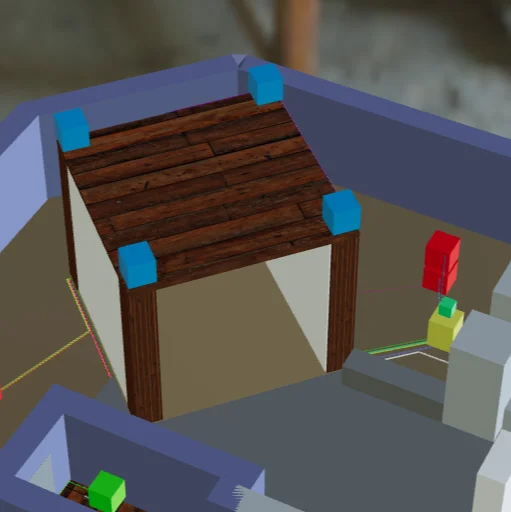
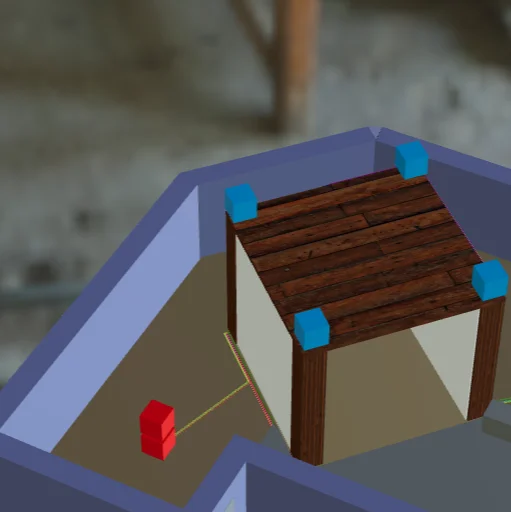
Add files via upload

diff --git a/index.html b/index.html
@@ -8,13 +8,56 @@
     <link type="text/css" href="./styles.css" rel="stylesheet"/>
   </head>
   <body>
-    Ierothoes was here<br>
     <!-- <model-viewer> HTML element -->
-    <model-viewer src="KibwtosGLTF.glb" ar ar-modes="webxr scene-viewer quick-look" width="500" camera-controls tone-mapping="aces" poster="poster.webp" shadow-intensity="1.35" environment-image="aircraft_workshop_01_1k.hdr" skybox-image="aircraft_workshop_01_1k.hdr" shadow-softness="1" camera-orbit="-62.62deg 45.87deg 9.226m" field-of-view="20.67deg">
-      <button class="Hotspot" slot="hotspot-1" data-position="0.5450418354012079m 0.3196736723036858m 0.6299859161362764m" data-normal="1m 0m 0m" data-visibility-attribute="visible">
+    <model-viewer src="KibwtosGLTF.glb" ar ar-modes="webxr scene-viewer quick-look" camera-controls tone-mapping="aces" poster="poster.webp" shadow-intensity="1.35" environment-image="aircraft_workshop_01_1k.hdr" skybox-image="aircraft_workshop_01_1k.hdr" shadow-softness="1" camera-orbit="-62.62deg 45.87deg 9.226m" field-of-view="20.67deg">
+      <button class="Hotspot" slot="hotspot-4" data-position="-0.8404524639406504m 0.22859999723732471m -1.142126163302229m" data-normal="0m 1m 0m" data-visibility-attribute="visible">
+          <div class="HotspotAnnotation">Projector01</div>
+      </button><button class="Hotspot" slot="hotspot-5" data-position="-0.8418325995450696m 0.3810000065714121m -1.1369141066908617m" data-normal="0m 1m 0m" data-visibility-attribute="visible">
+          <div class="HotspotAnnotation">Projector02</div>
+      </button><button class="Hotspot" slot="hotspot-8" data-position="0.8096617410568295m 0.2031999919563539m -1.1992893988743147m" data-normal="0m 1m 0m" data-visibility-attribute="visible">
+          <div class="HotspotAnnotation">Projector03</div>
+      </button><button class="Hotspot" slot="hotspot-11" data-position="0.8106174703034759m 0.3804894161572566m -1.2012522921594355m" data-normal="0.6427873887075685m 0m -0.7660446285422968m" data-visibility-attribute="visible">
+          <div class="HotspotAnnotation">Projector04</div>
+      </button><button class="Hotspot" slot="hotspot-12" data-position="0.8483231782165113m 0.22859999723732471m 0.5352642239662252m" data-normal="0m 1m 0m" data-visibility-attribute="visible">
+          <div class="HotspotAnnotation">Projector05</div>
+      </button><button class="Hotspot" slot="hotspot-16" data-position="0.3658530764810761m 0.8284577815297843m -0.8086641437682563m" data-normal="0.6691302665137417m 0m -0.7431451314751708m" data-visibility-attribute="visible">
+          <div class="HotspotAnnotation">Projector08</div>
+      </button><button class="Hotspot" slot="hotspot-17" data-position="0.4672427634792565m 0.8262434849135454m -0.7141876352978147m" data-normal="0.6691307063621001m 3.423251668731993e-8m -0.7431447354340578m" data-visibility-attribute="visible">
+          <div class="HotspotAnnotation">Projector07</div>
+      </button><button class="Hotspot" slot="hotspot-18" data-position="0.8484549138379409m 0.3810000065714121m 0.5289476974192194m" data-normal="0m 1m 0m" data-visibility-attribute="visible">
+          <div class="HotspotAnnotation">Projector06</div>
+      </button><button class="Hotspot" slot="hotspot-19" data-position="0.5138617161551875m 0.34837756771594286m 0.6470324311043342m" data-normal="0m 1m 0m" data-visibility-attribute="visible">
           <div class="HotspotAnnotation">Laptop</div>
-      </button><button class="Hotspot" slot="hotspot-2" data-position="0.5767918350175023m 0.2086151574197068m 0.6269108662313089m" data-normal="1m 0m 0m" data-visibility-attribute="visible">
+      </button><button class="Hotspot" slot="hotspot-22" data-position="0.5079452131192626m 0.25673253554850817m 0.6496280006057427m" data-normal="0m 1m 0m" data-visibility-attribute="visible">
           <div class="HotspotAnnotation">Rack</div>
+      </button><button class="Hotspot" slot="hotspot-23" data-position="-1.1691966609270248m 0.36830000672489477m -0.21519091560475406m" data-normal="0m 1m 0m" data-visibility-attribute="visible">
+          <div class="HotspotAnnotation">PC</div>
+      </button><button class="Hotspot" slot="hotspot-26" data-position="0.8511897739992038m 0.3810000065714128m 1.6827616796595206m" data-normal="0m 1m 0m" data-visibility-attribute="visible">
+          <div class="HotspotAnnotation">PC_HOST06</div>
+      </button><button class="Hotspot" slot="hotspot-27" data-position="1.0114948973454296m 0.3810000065714121m 1.6793807458738257m" data-normal="0m 1m 0m" data-visibility-attribute="visible">
+          <div class="HotspotAnnotation">PC_HOST05</div>
+      </button><button class="Hotspot" slot="hotspot-28" data-position="0.8517730898712933m 0.3810000065714121m 1.5157149281601878m" data-normal="0m 1m 0m" data-visibility-attribute="visible">
+          <div class="HotspotAnnotation">PC_HOST08</div>
+      </button><button class="Hotspot" slot="hotspot-29" data-position="1.012876771766069m 0.3810000065714121m 1.51018504635575m" data-normal="0m 1m 0m" data-visibility-attribute="visible">
+          <div class="HotspotAnnotation">PC_HOST07</div>
+      </button><button class="Hotspot" slot="hotspot-32" data-position="1.0110865764065953m 0.19334746038237932m 1.6162660596892238m" data-normal="0m 0m -1m" data-visibility-attribute="visible">
+          <div class="HotspotAnnotation">PC_HOST01</div>
+      </button><button class="Hotspot" slot="hotspot-34" data-position="0.8602185205009177m 0.1863106218304467m 1.6162660596892238m" data-normal="0m 0m -1m" data-visibility-attribute="visible">
+          <div class="HotspotAnnotation">PC_HOST02</div>
+      </button><button class="Hotspot" slot="hotspot-35" data-position="0.8496992090319841m 0.22031782743485595m 1.4481202838942409m" data-normal="0m 0m -1m" data-visibility-attribute="visible">
+          <div class="HotspotAnnotation">PC_HOST04</div>
+      </button><button class="Hotspot" slot="hotspot-36" data-position="1.009151723057061m 0.21863999296724587m 1.4483291385695338m" data-normal="0m 0m -1m" data-visibility-attribute="visible">
+          <div class="HotspotAnnotation">PC_HOST03</div>
+      </button><button class="Hotspot" slot="hotspot-37" data-position="0.12282608478826303m 1.1430000308901072m 0.25462181172294024m" data-normal="0m 1m 0m" data-visibility-attribute="visible">
+          <div class="HotspotAnnotation">SPEAKER01</div>
+      </button><button class="Hotspot" slot="hotspot-38" data-position="-0.5701500606694953m 1.1430000308901072m -0.36961484953804113m" data-normal="0m 1m 0m" data-visibility-attribute="visible">
+          <div class="HotspotAnnotation">SPEAKER04</div>
+      </button><button class="Hotspot" slot="hotspot-39" data-position="0.052965227692882415m 1.1430000308901072m -1.074770365501172m" data-normal="0m 1m 0m" data-visibility-attribute="visible">
+          <div class="HotspotAnnotation">SPEAKER03</div>
+      </button><button class="Hotspot" slot="hotspot-40" data-position="0.7555832587283728m 1.1430000308901072m -0.4415100471546046m" data-normal="0m 1m 0m" data-visibility-attribute="visible">
+          <div class="HotspotAnnotation">SPEAKER02</div>
+      </button><button class="Hotspot" slot="hotspot-41" data-position="0.6507008401746903m 0.22859999723732544m 1.1079083742506568m" data-normal="0m 1m 0m" data-visibility-attribute="visible">
+          <div class="HotspotAnnotation">AUDIO_PC</div>
       </button>
       <div class="progress-bar hide" slot="progress-bar">
           <div class="update-bar"></div>
@@ -26,7 +69,6 @@
           <img src="ar_hand_prompt.png">
       </div>
     </model-viewer>  
-     <img src="https://www.w3schools.com/tags/smiley.gif" alt="Girl in a jacket" width="500" height="600"> 
     <script src="script.js"></script>
     <!-- Loads <model-viewer> for browsers: -->
     <script type="module" src="https://ajax.googleapis.com/ajax/libs/model-viewer/4.0.0/model-viewer.min.js"></script>
